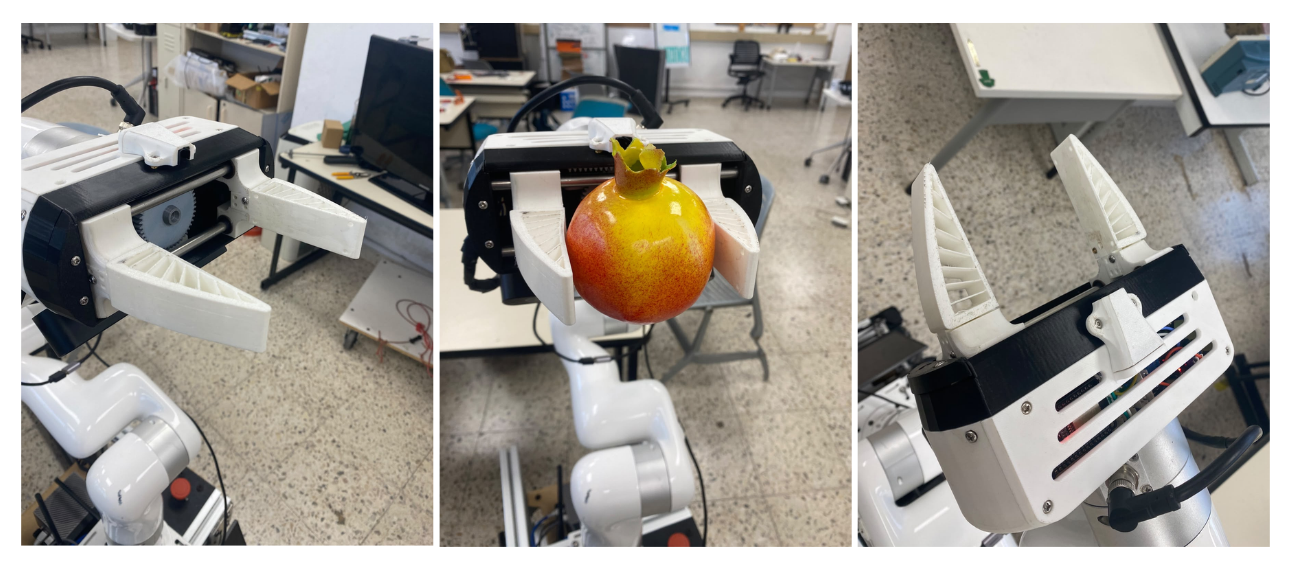
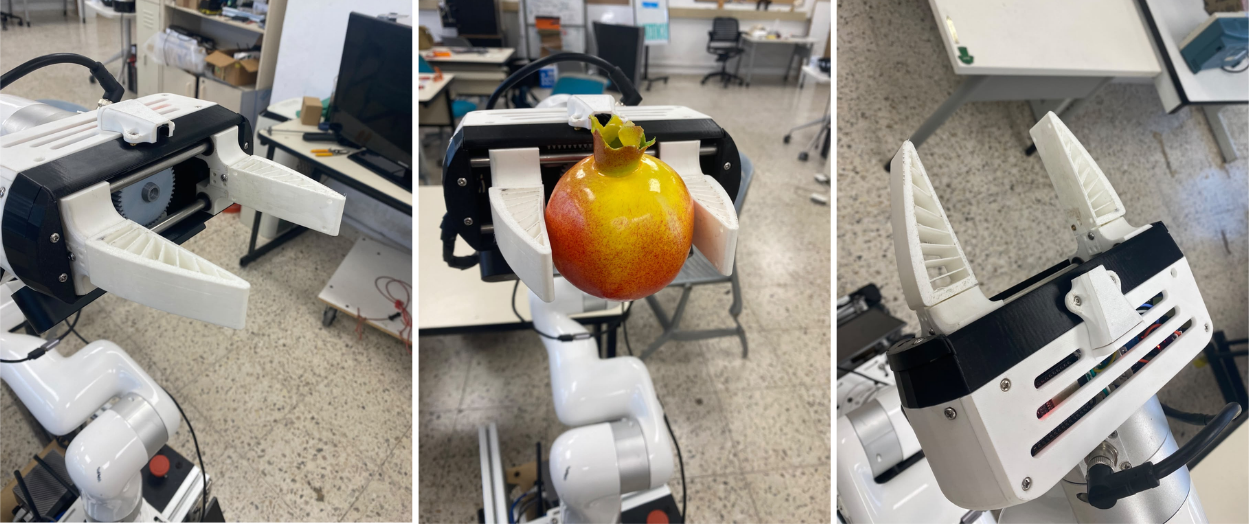
Trim gripper image border so figure panels share the same height

diff --git a/TDPTemplate-master/sections/manipulation.tex b/TDPTemplate-master/sections/manipulation.tex
@@ -33,8 +33,8 @@ FRIDA's low-cost, open-source\footnote{\url{https://grabcad.com/library/robotic-
 \centering
 \setlength{\tabcolsep}{6pt}
 \begin{tabular}{cc}
-\includegraphics[height=2.8cm]{TDPTemplate-master/images/Gripper_Soft.png} &
-\includegraphics[height=2.8cm]{TDPTemplate-master/images/clutter_scene4.png} \\
+\includegraphics[height=2.7cm]{TDPTemplate-master/images/Gripper_Soft.png} &
+\includegraphics[height=2.7cm]{TDPTemplate-master/images/clutter_scene4.png} \\
 (a) & (b)
 \end{tabular}
 \caption{(a) Gripper grasps from different positions. (b) Clutter scene from the experiment.}
